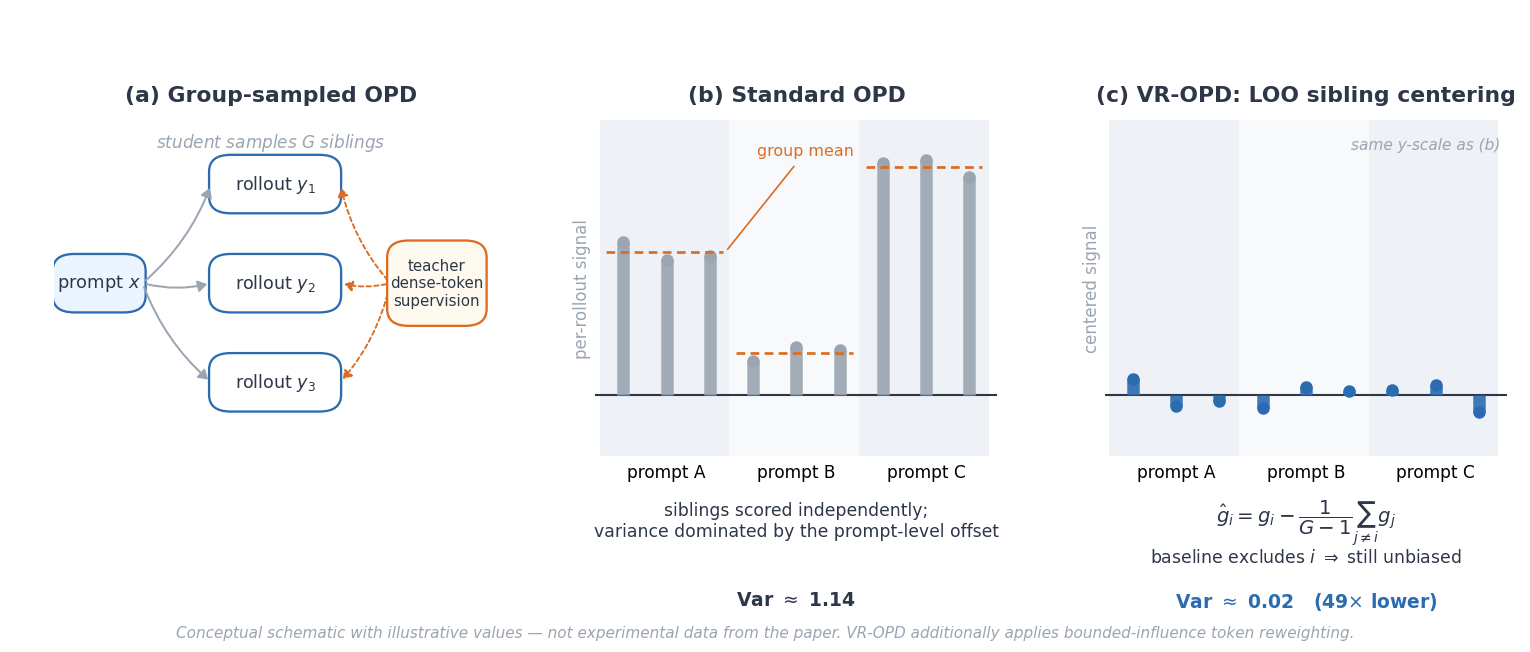
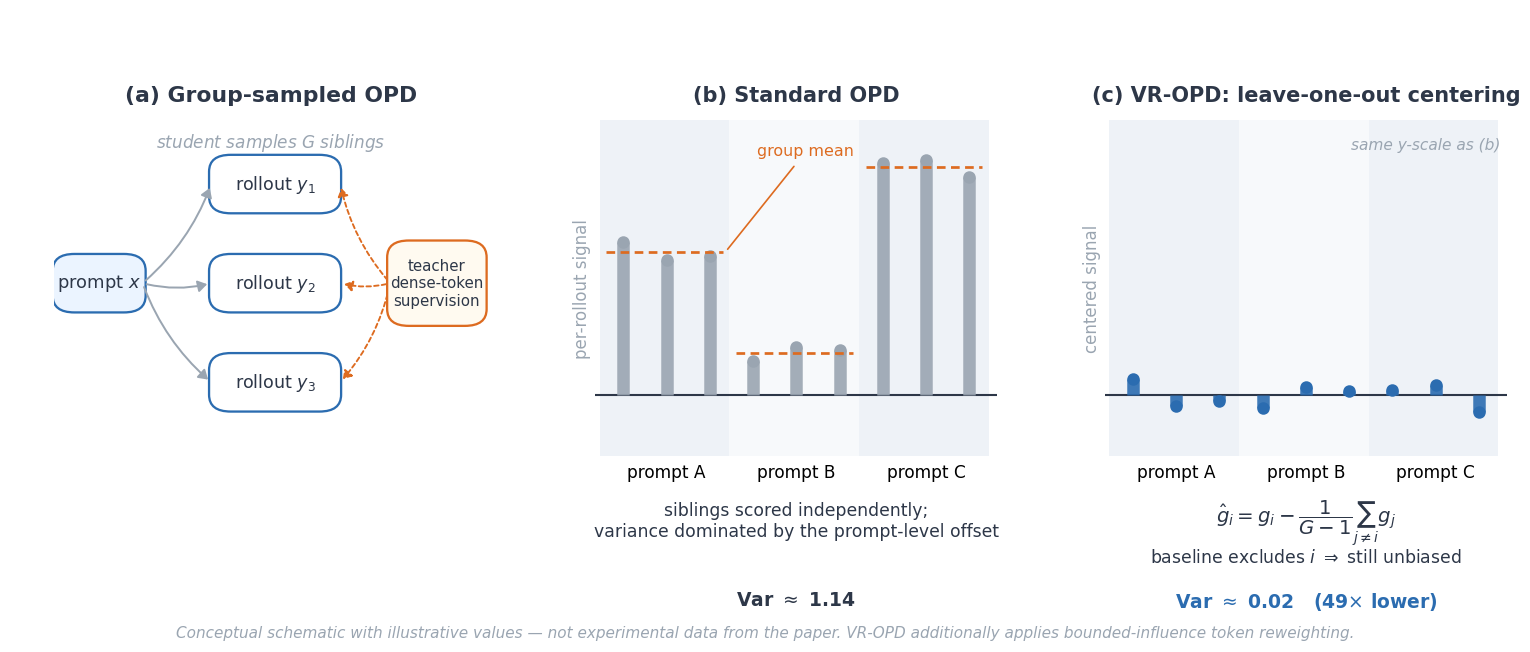
VR-OPD 卡片改为两条要点，并移除 LOO 缩写
- 文案改为用户提供版本：补充正确性门控收缩与有界token影响控制两个机制、点明师生配置
- 图中第三格标题由「LOO sibling centering」改为「leave-one-out centering」，全页不再出现 LOO 缩写

Changed region(s): [[0.7065, 0.1227, 1.0, 0.184], [0.4301, 0.1227, 0.6144, 0.1534]]

diff --git a/_pages/about.md b/_pages/about.md
@@ -89,10 +89,8 @@ MCPO: Masked and Counterfactual Policy Optimization for Agentic Model Selection
 VR-OPD: Variance Reduction for On-Policy Distillation with Group Baselines
 
 **ICLR 2027 (CCF-A) 在审** ｜ 共同一作
-- 在策略蒸馏 (OPD) 已成为推理模型后训练的核心范式，但采样token估计量普遍存在**梯度方差高、优化不稳**的问题。
-- 抓住一个**被浪费掉的方差缩减来源**：group-sampled的OPD本来就已为每个提示采了多条兄弟rollout，标准估计量却把它们彼此独立处理。
-- VR-OPD由两部分耦合而成：**LOO兄弟中心化**以组内留一均值作为基线，在保持期望梯度不变的前提下缩减方差；**有界影响的token重加权**则抑制少数高影响token对梯度的主导。
-- 在**6个数学推理 (ID) 与2个通用推理 (OOD)** 基准上，两组师生配置的**全部8个基准均优于标准OPD**：域内均值 **+1.6~2.0 pts**、域外均值 **+2.3~2.6 pts**。
+- 针对sampled-token OPD梯度方差高、训练不稳的问题，提出VR-OPD：以组内leave-one-out基线在保持期望梯度不变的前提下缩减方差，辅以正确性门控收缩与有界token影响控制，避免同质组过度中心化及极端token梯度主导更新。
+- 在两组师生配置 (Skywork-OR1-Math-7B → R1-Distill-Qwen-1.5B、Qwen3-32B → Qwen3-4B-Base) 的8个基准上**全面优于标准OPD**：域内数学推理平均**+1.6~2.0 pts**，域外通用推理平均**+2.3~2.6 pts**，方差缩减同时改善域外泛化。
 </div>
 </div>
 
